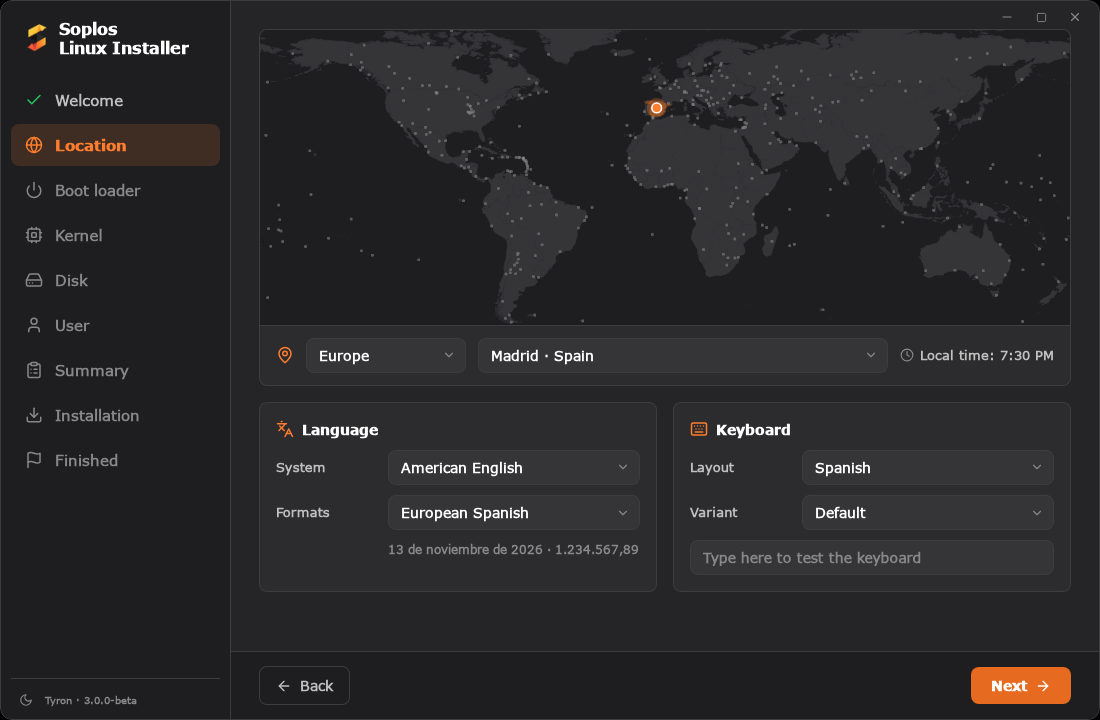
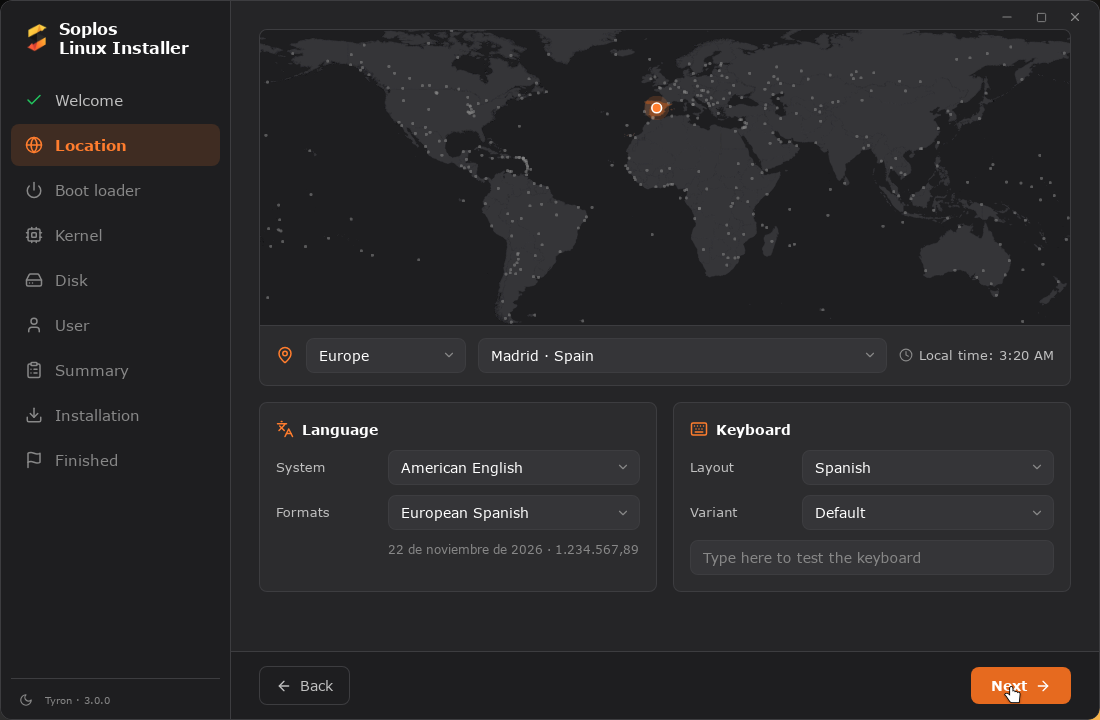
Refresh the 3.0.0 screenshots and add the AppStream metadata
The nine screenshots are new and no longer show a beta version in the corner. The metainfo describes the program, the nine screenshots and the release, and the package installs it in /usr/share/metainfo. The changelog keeps the change in 3.0.0, without a new version.

diff --git a/README.md b/README.md
@@ -15,7 +15,7 @@ The installer of Soplos Linux, for Tyron (Xfce), Tyson (Plasma) and Boro
 | ![Boot loader](src-tauri/resources/screenshots/screenshot03.png) Boot loader: GRUB, systemd-boot or Limine | ![Kernel](src-tauri/resources/screenshots/screenshot04.png) Kernel: the kind of installation and the Soplos kernel for the processor |
 | ![Disk](src-tauri/resources/screenshots/screenshot05.png) Disk: the disk as it will be, before anything is touched | ![User](src-tauri/resources/screenshots/screenshot06.png) User: the account, the computer name and the passwords |
 | ![Summary](src-tauri/resources/screenshots/screenshot07.png) Summary: everything chosen, and what will be done to the disk | ![Editions](src-tauri/resources/screenshots/screenshot08.png) Installation: the presentation of the three editions |
-| ![Programs](src-tauri/resources/screenshots/screenshot09.png) Installation: the programs of Soplos, one by one | |
+| ![Finished](src-tauri/resources/screenshots/screenshot09.png) Finished: install done, and the computer can restart | |
 
 ## Status
 

diff --git a/CHANGELOG.md b/CHANGELOG.md
@@ -31,6 +31,12 @@ First stable release.
 - FAT32 is no longer offered for `/` and the other mount points of the
   system: it keeps no Unix permissions and the system cannot live on it.
 
+### Changed
+- New screenshots of the nine steps, in English: Welcome, Location, Boot
+  loader, Kernel, Disk, User, Summary, the presentation of the three editions
+  and the end of the installation. The corner of the window shows the release
+  and no longer a beta version.
+
 ## [3.0.0-3-beta] - 2026-11-15
 
 ### Fixed
